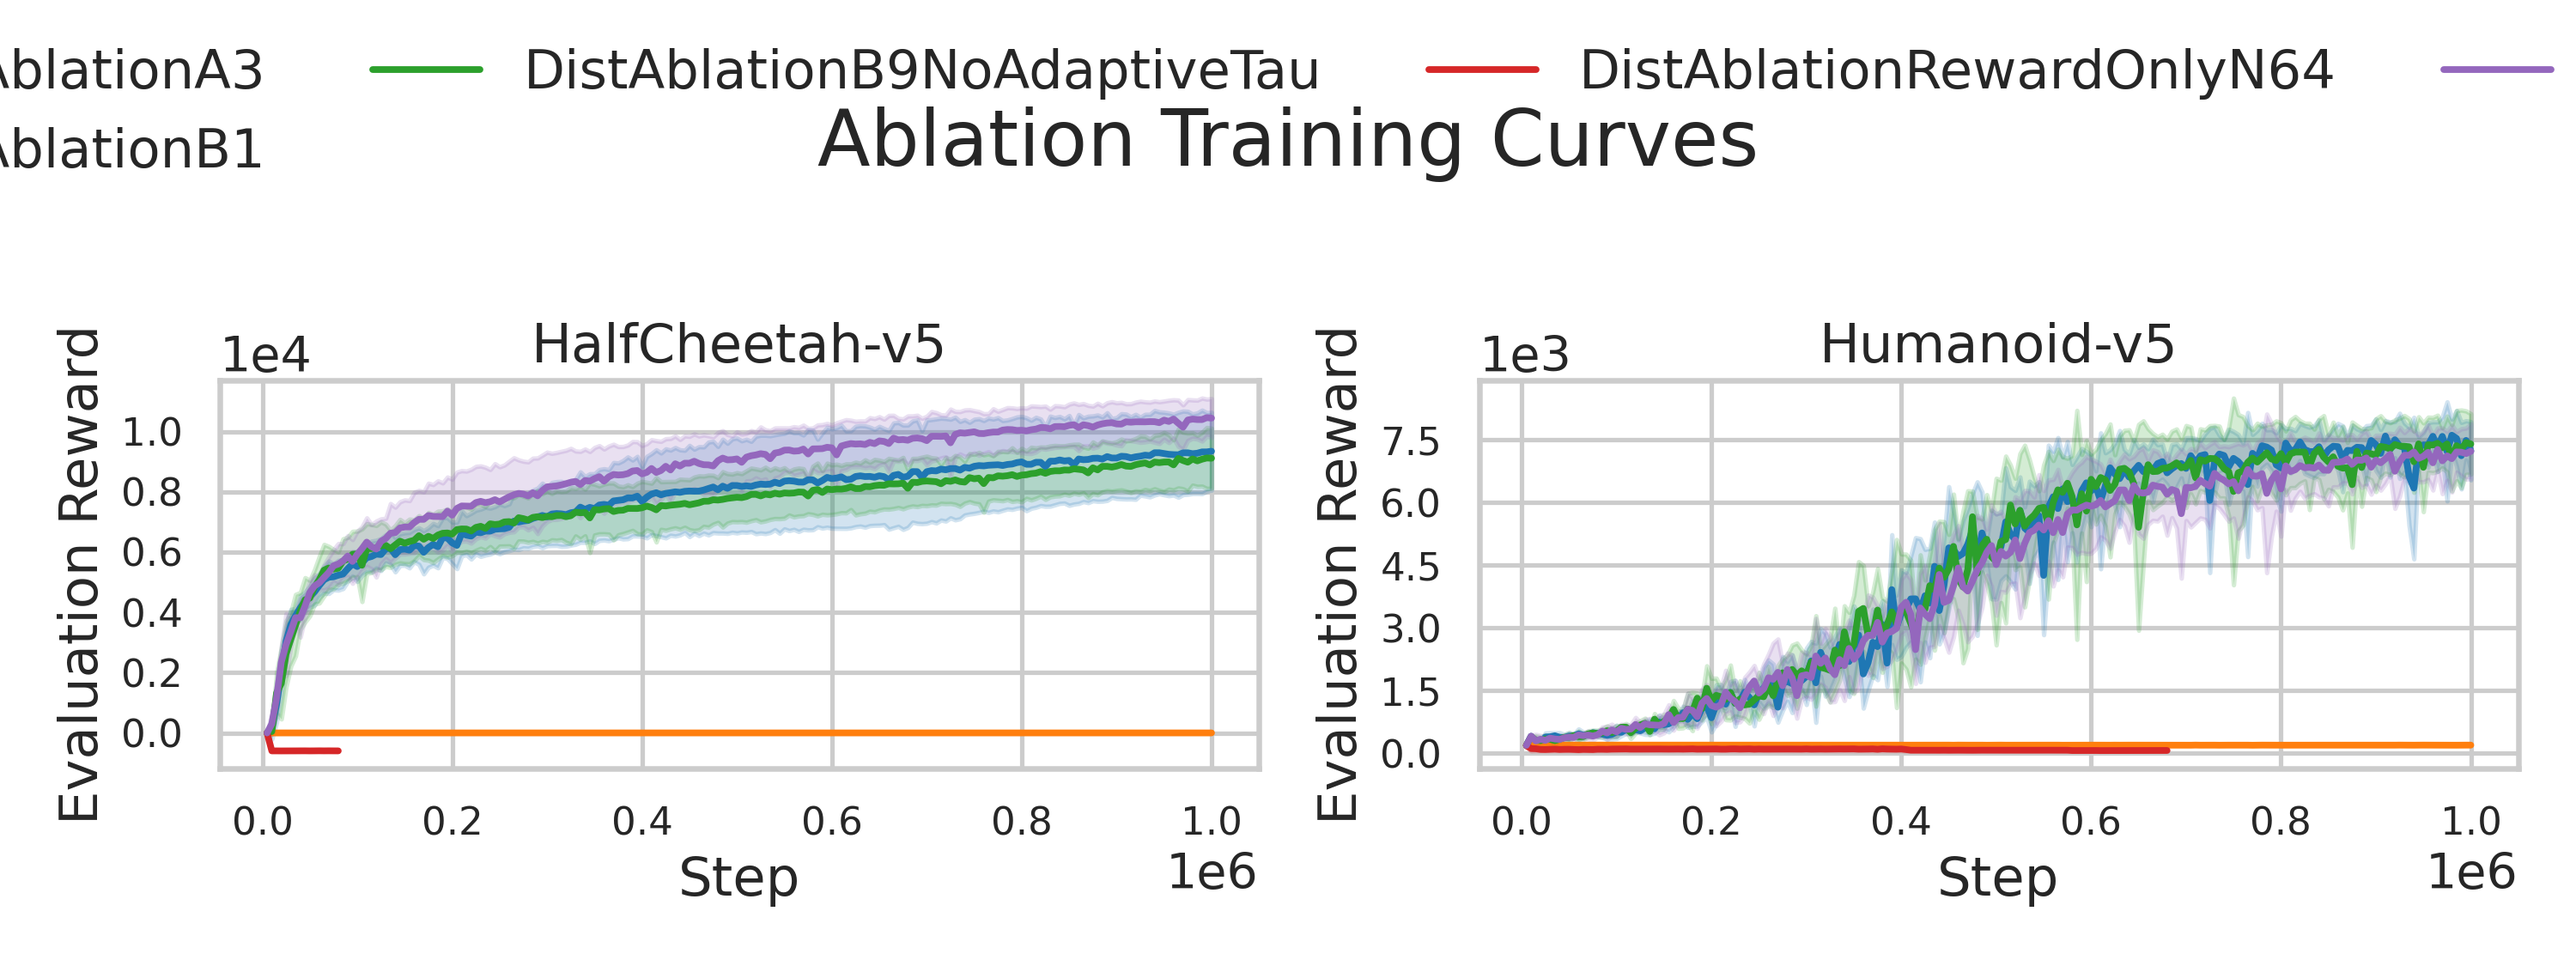
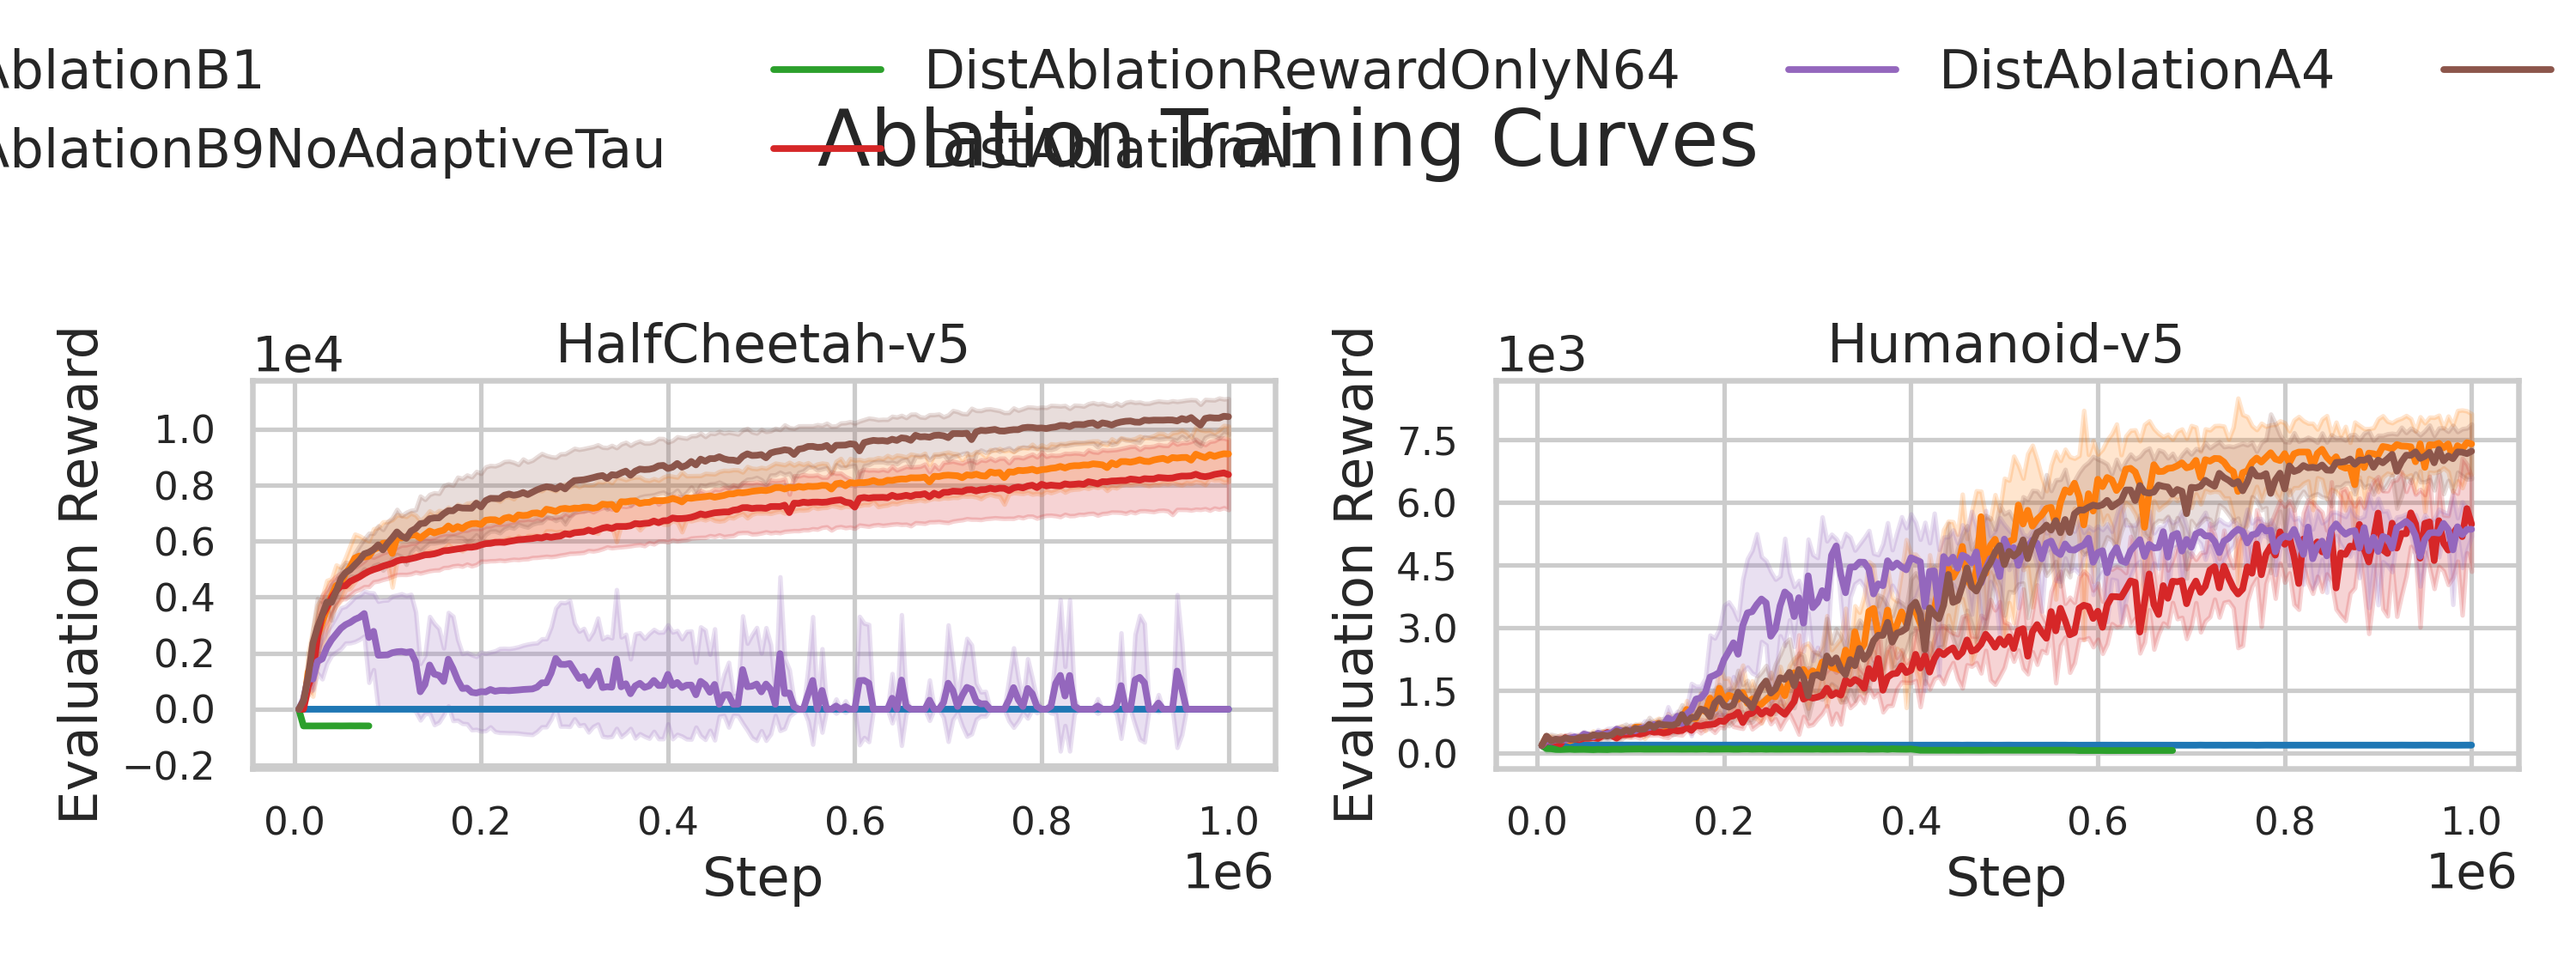
feat: Update ablation visualization scripts; add new algorithms to drop list and implement LaTeX table generation

diff --git a/results_analysis/generate_ablation_table.py b/results_analysis/generate_ablation_table.py
@@ -1,0 +1,236 @@
+"""Generate LaTeX table for ablation study results.
+
+Reads ablation_results_full.csv and produces a formatted LaTeX table
+with mean ± standard error for specified environments at 500k steps.
+"""
+
+from pathlib import Path
+import argparse
+import pandas as pd
+import numpy as np
+
+
+def load_ablation_results(csv_path: Path) -> pd.DataFrame:
+    """Load and validate ablation results CSV."""
+    if not csv_path.exists():
+        raise FileNotFoundError(f"Results file not found: {csv_path}")
+    df = pd.read_csv(csv_path)
+    required_cols = {"env", "algo", "seed", "step", "eval_reward"}
+    missing = required_cols - set(df.columns)
+    if missing:
+        raise ValueError(f"Missing required columns: {sorted(missing)}")
+    return df.dropna(subset=["env", "algo", "step", "eval_reward"])
+
+
+def get_results_at_step(df: pd.DataFrame, target_step: int, tolerance: int = 5000) -> pd.DataFrame:
+    """Extract results at or near target step for each env/algo/seed combination."""
+    results = []
+    
+    for (env, algo, seed), group in df.groupby(['env', 'algo', 'seed']):
+        # Find closest step to target
+        group = group.copy()
+        group['step_diff'] = abs(group['step'] - target_step)
+        closest_idx = group['step_diff'].idxmin()
+        closest_row = group.loc[closest_idx]
+        
+        # Only include if within tolerance
+        if closest_row['step_diff'] <= tolerance:
+            results.append({
+                'env': env,
+                'algo': algo,
+                'seed': seed,
+                'step': closest_row['step'],
+                'eval_reward': closest_row['eval_reward']
+            })
+    
+    return pd.DataFrame(results)
+
+
+def compute_statistics(df: pd.DataFrame) -> pd.DataFrame:
+    """Compute mean and standard error for each env/algo combination."""
+    stats = df.groupby(['env', 'algo'])['eval_reward'].agg(['mean', 'std', 'count']).reset_index()
+    # Standard error = std / sqrt(n)
+    stats['se'] = stats['std'] / np.sqrt(stats['count'])
+    return stats
+
+
+def format_result(mean: float, se: float) -> str:
+    """Format result as mean ± se with appropriate precision."""
+    # Determine appropriate decimal places based on magnitude
+    if abs(mean) >= 1000:
+        return f"${mean:.0f} \\pm {se:.0f}$"
+    elif abs(mean) >= 100:
+        return f"${mean:.1f} \\pm {se:.1f}$"
+    else:
+        return f"${mean:.2f} \\pm {se:.2f}$"
+
+
+def generate_latex_table(
+    csv_path: Path,
+    target_step: int = 500_000,
+    environments: list[str] = None,
+    output_path: Path = None,
+    repk_csv: Path = None,
+) -> str:
+    """Generate LaTeX table for ablation results."""
+    
+    # Load data
+    df = load_ablation_results(csv_path)
+    
+    # Load repK baseline if provided
+    if repk_csv and repk_csv.exists():
+        repk_df = pd.read_csv(repk_csv)
+        # Add best v2DistAgent from repK as "DistAgent"
+        if 'v2DistAgent' in repk_df['algo'].values:
+            repk_baseline = repk_df[repk_df['algo'] == 'v2DistAgent'].copy()
+            repk_baseline['algo'] = 'DistAgent'
+            df = pd.concat([df, repk_baseline], ignore_index=True)
+    
+    # Filter environments if specified
+    if environments:
+        df = df[df['env'].isin(environments)]
+    else:
+        environments = sorted(df['env'].unique())
+    
+    # Get results at target step
+    results_df = get_results_at_step(df, target_step)
+    
+    if len(results_df) == 0:
+        raise ValueError(f"No results found at step {target_step}")
+    
+    # Compute statistics
+    stats = compute_statistics(results_df)
+    
+    # Define ablation mapping (algo name -> display name)
+    ablation_mapping = {
+        'DistAgent': 'DistRL (full)',
+        'v2DistAgent': 'DistRL (full)',
+        'DistAblationA1': 'w/o repr. loss (A1)',
+        'DistAblationRewardOnlyN64': '64-step reward w/o Q',
+        'DistAblationA3': 'w/o adaptive beta scaling (A3)',
+        'DistAblationA4': 'w/o adaptive beta scaling (A4)',
+        'DistAblationB1': 'uniform kernel weighting (B1)',
+        'DistAblationB9NoAdaptiveTau': 'w/o adaptive $\\tau$',
+        'DistAblationRewardOnly': 'reward-only baseline',
+    }
+    
+    # Ordered list of ablations to include in table
+    ablation_order = [
+        'v2DistAgent',  # Use v2DistAgent (repK baseline) as the main baseline
+        'DistAblationA1',
+        'DistAblationRewardOnlyN64',
+        'DistAblationA4',
+        'DistAblationB1',
+        'DistAblationB9NoAdaptiveTau',
+    ]
+    
+    # Build LaTeX table
+    lines = []
+    lines.append("\\begin{table}[t]")
+    lines.append("\\centering")
+    lines.append("\\small")
+    lines.append("\\caption{Design choice ablation study on two MuJoCo environments.")
+    lines.append("Each row removes or modifies one architectural component of the proposed method.")
+    lines.append("Results are reported as mean evaluation return $\\pm$ standard error over multiple seeds")
+    lines.append(f"after {target_step//1000}k environment steps.}}")
+    lines.append("\\label{tab:ablation}")
+    
+    # Table header
+    env_cols = ' & '.join([f"\\textbf{{{env}}}" for env in environments])
+    lines.append(f"\\begin{{tabular}}{{l{'c' * len(environments)}}}")
+    lines.append("\\toprule")
+    lines.append(f"\\textbf{{Variant}} & {env_cols} \\\\")
+    lines.append("\\midrule")
+    
+    # Table rows
+    for algo in ablation_order:
+        if algo not in stats['algo'].values:
+            continue
+        
+        variant_name = ablation_mapping.get(algo, algo)
+        row_data = [variant_name]
+        
+        for env in environments:
+            env_algo_stats = stats[(stats['env'] == env) & (stats['algo'] == algo)]
+            if len(env_algo_stats) == 0:
+                row_data.append("--")
+            else:
+                mean = env_algo_stats.iloc[0]['mean']
+                se = env_algo_stats.iloc[0]['se']
+                row_data.append(format_result(mean, se))
+        
+        lines.append(' & '.join(row_data) + " \\\\")
+        lines.append("")
+    
+    lines.append("\\bottomrule")
+    lines.append("\\end{tabular}")
+    lines.append("\\end{table}")
+    
+    latex_table = '\n'.join(lines)
+    
+    # Save to file if output path specified
+    if output_path:
+        output_path.parent.mkdir(parents=True, exist_ok=True)
+        output_path.write_text(latex_table)
+        print(f"LaTeX table saved to: {output_path}")
+    
+    return latex_table
+
+
+def parse_args() -> argparse.Namespace:
+    parser = argparse.ArgumentParser(description="Generate LaTeX ablation table")
+    parser.add_argument(
+        "--csv",
+        type=Path,
+        default=Path("results_analysis/data/ablation_results_full.csv"),
+        help="Path to ablation_results_full.csv",
+    )
+    parser.add_argument(
+        "--repk-csv",
+        type=Path,
+        default=Path("results_analysis/data/repK_results_full.csv"),
+        help="Path to repK_results_full.csv for baseline",
+    )
+    parser.add_argument(
+        "--step",
+        type=int,
+        default=500_000,
+        help="Target step for evaluation (default: 500000)",
+    )
+    parser.add_argument(
+        "--envs",
+        type=str,
+        default="HalfCheetah-v5,Humanoid-v5",
+        help="Comma-separated list of environments (default: HalfCheetah-v5,Humanoid-v5)",
+    )
+    parser.add_argument(
+        "--output",
+        type=Path,
+        default=Path("results_analysis/data/ablation_table.tex"),
+        help="Output path for LaTeX table",
+    )
+    return parser.parse_args()
+
+
+def main() -> None:
+    args = parse_args()
+    
+    environments = [e.strip() for e in args.envs.split(',') if e.strip()]
+    
+    latex_table = generate_latex_table(
+        csv_path=args.csv,
+        target_step=args.step,
+        environments=environments,
+        output_path=args.output,
+        repk_csv=args.repk_csv,
+    )
+    
+    print("\n" + "=" * 80)
+    print("GENERATED LATEX TABLE")
+    print("=" * 80)
+    print(latex_table)
+    print("=" * 80 + "\n")
+
+
+if __name__ == "__main__":
+    main()

diff --git a/results_analysis/visualize_ablation.py b/results_analysis/visualize_ablation.py
@@ -169,7 +169,10 @@ def visualize_ablation(
     df = load_ablation_results(csv_path)
 
     # Drop unwanted ablation baselines
-    drop_algos = {"DistAblationRewardOnly"}
+    drop_algos = {"DistAblationRewardOnly",
+                  "v2DistAgent",
+                  "DistAblationA3"
+                  }
     df = df[~df["algo"].isin(drop_algos)]
 
     if env_filter:
